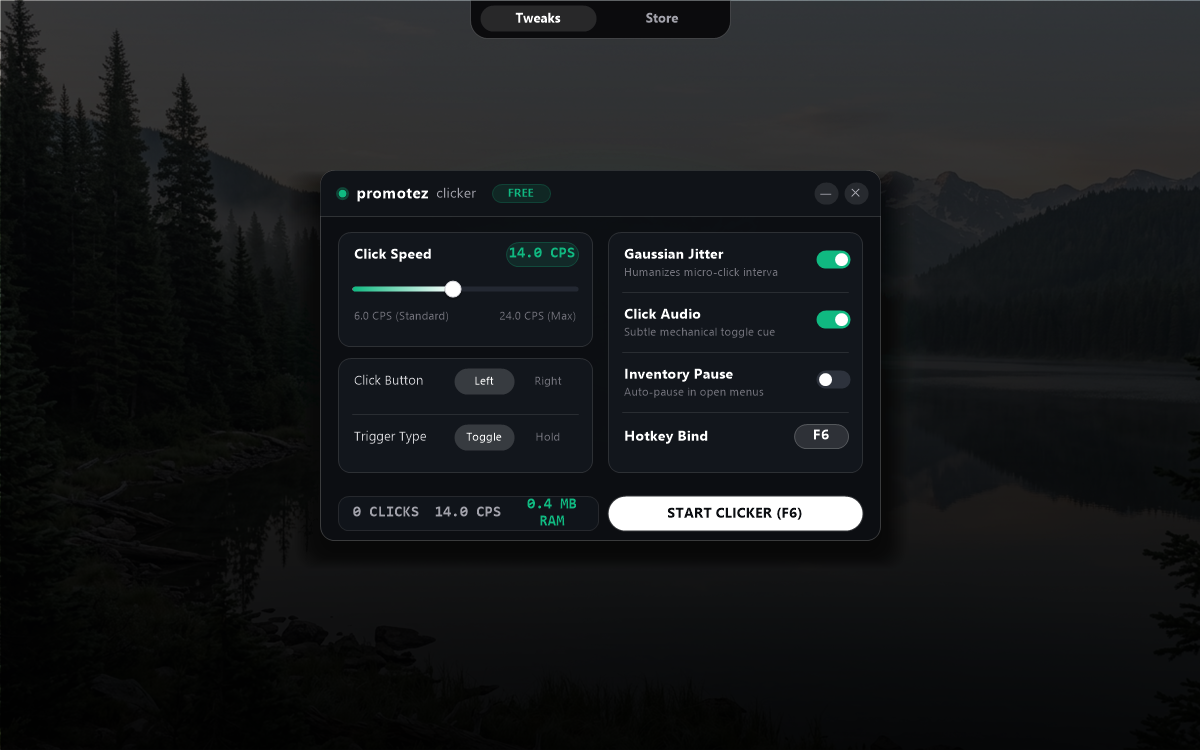
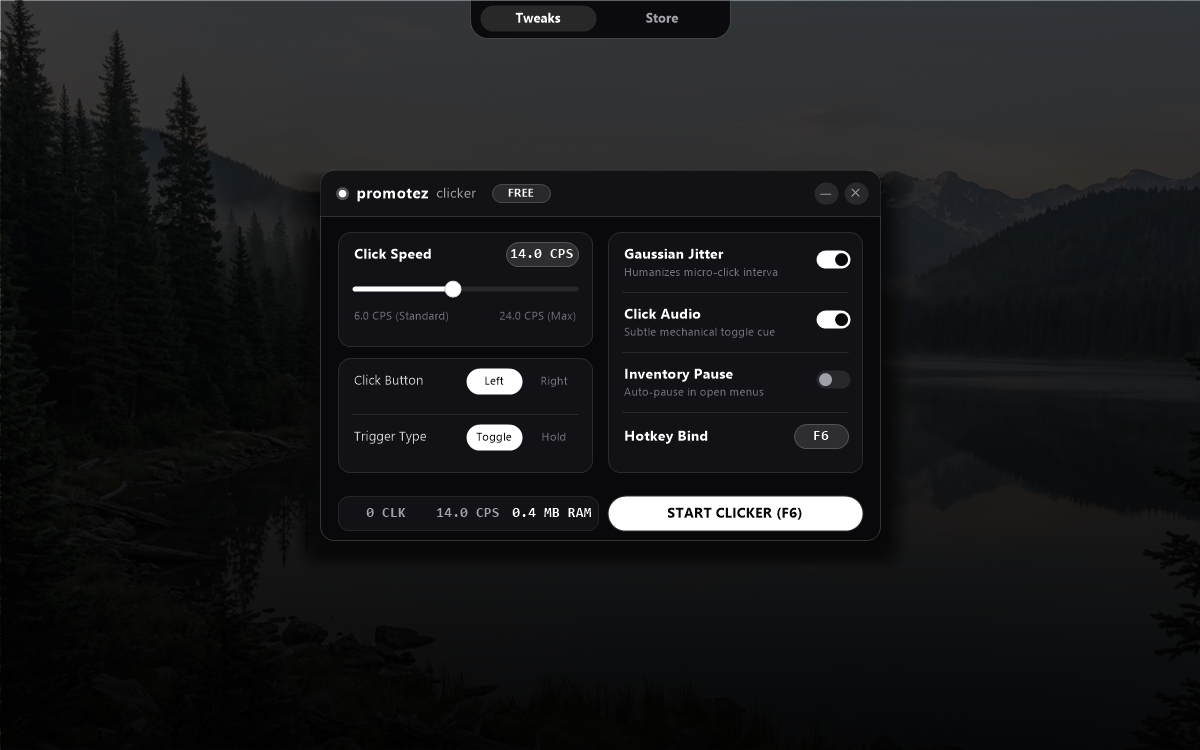
Align UI with promotezz monochrome dark aesthetic and update preview

diff --git a/src/gui.cpp b/src/gui.cpp
@@ -120,7 +120,6 @@ static DWORD WINAPI clicker_worker_thread(LPVOID param) {
         int hotkey_is_down = (GetAsyncKeyState(g_state.hotkey_vk) & 0x8000) != 0;
 
         if (g_state.hold_mode) {
-            // Hold mode
             if (hotkey_is_down != g_state.is_active) {
                 g_state.is_active = hotkey_is_down;
                 if (g_state.sound_enabled && g_state.is_active) {
@@ -129,7 +128,6 @@ static DWORD WINAPI clicker_worker_thread(LPVOID param) {
                 if (g_state.hwnd) InvalidateRect(g_state.hwnd, NULL, FALSE);
             }
         } else {
-            // Toggle mode
             if (hotkey_is_down && !hotkey_was_down) {
                 g_state.is_active = !g_state.is_active;
                 if (g_state.sound_enabled) {
@@ -220,14 +218,16 @@ static void draw_rounded_card(Graphics* g, Brush* brush, Pen* pen, float x, floa
 static void draw_switch(Graphics* g, float x, float y, bool on) {
     float w = 34.0f;
     float h = 18.0f;
-    Color bgColor = on ? Color(255, 16, 185, 129) : Color(255, 45, 50, 60);
+    // Strict monochrome: White when ON, Dark zinc when OFF
+    Color bgColor = on ? Color(255, 255, 255, 255) : Color(255, 39, 39, 44);
     SolidBrush bg(bgColor);
     fill_rounded_card(g, &bg, x, y, w, h, 9.0f);
 
     float knobR = 6.5f;
     float knobX = on ? (x + w - knobR - 2.5f) : (x + knobR + 2.5f);
     float knobY = y + (h / 2.0f);
-    SolidBrush knobBrush(Color(255, 255, 255, 255));
+    Color knobColor = on ? Color(255, 9, 9, 11) : Color(255, 161, 161, 170);
+    SolidBrush knobBrush(knobColor);
     g->FillEllipse(&knobBrush, knobX - knobR, knobY - knobR, knobR * 2.0f, knobR * 2.0f);
 }
 
@@ -250,32 +250,22 @@ static void on_paint(HWND hwnd) {
         g.SetTextRenderingHint(TextRenderingHintAntiAlias);
         g.SetInterpolationMode(InterpolationModeHighQualityBicubic);
 
-        // 1. Base Slate #0c0e12
-        SolidBrush bgBrush(Color(255, 12, 14, 18));
+        // 1. Strict promotezz Monochrome Base: #09090b (Deep Zinc 950)
+        SolidBrush bgBrush(Color(255, 9, 9, 11));
         g.FillRectangle(&bgBrush, 0, 0, width, height);
 
-        // Ambient radial emerald hero glow behind center
-        GraphicsPath glowPath;
-        glowPath.AddEllipse(20.0f, 20.0f, (float)(width - 40), (float)(height - 40));
-        PathGradientBrush pgb(&glowPath);
-        pgb.SetCenterColor(Color(25, 16, 185, 129));
-        Color surroundColors[] = { Color(0, 12, 14, 18) };
-        int count = 1;
-        pgb.SetSurroundColors(surroundColors, &count);
-        g.FillPath(&pgb, &glowPath);
-
-        // Top Header Bar
+        // Header Bar #121215
         float headerH = 46.0f;
-        SolidBrush headerBg(Color(255, 16, 19, 24));
+        SolidBrush headerBg(Color(255, 18, 18, 21));
         Pen sepPen(Color(35, 255, 255, 255), 1.0f);
         g.FillRectangle(&headerBg, 0, 0, width, (int)headerH);
         g.DrawLine(&sepPen, 0.0f, headerH, (float)width, headerH);
 
         // Outer window border
-        Pen winBorder(Color(45, 255, 255, 255), 1.0f);
+        Pen winBorder(Color(40, 255, 255, 255), 1.0f);
         g.DrawRectangle(&winBorder, 0, 0, width - 1, height - 1);
 
-        // Fonts
+        // Typography (Segoe UI)
         FontFamily ffSegoe(L"Segoe UI");
         FontFamily ffConsolas(L"Consolas");
         Gdiplus::Font fontLogo(&ffSegoe, 11.5f, FontStyleBold, UnitPoint);
@@ -287,14 +277,17 @@ static void on_paint(HWND hwnd) {
         Gdiplus::Font fontMono(&ffConsolas, 10.5f, FontStyleBold, UnitPoint);
         Gdiplus::Font fontBtn(&ffSegoe, 10.5f, FontStyleBold, UnitPoint);
 
-        // Brushes
+        // Pure Monochrome Palette
         SolidBrush whiteBrush(Color(255, 255, 255, 255));
-        SolidBrush darkBrush(Color(255, 12, 14, 18));
+        SolidBrush darkBrush(Color(255, 9, 9, 11));
+        SolidBrush zinc200(Color(255, 228, 228, 231));
         SolidBrush zinc300(Color(255, 212, 212, 216));
         SolidBrush zinc400(Color(255, 161, 161, 170));
         SolidBrush zinc500(Color(255, 113, 113, 122));
-        SolidBrush emerald(Color(255, 16, 185, 129));
-        SolidBrush cardBg(Color(255, 18, 22, 28));
+        SolidBrush zinc600(Color(255, 82, 82, 91));
+
+        // Cards: Translucent zinc surface with subtle white border
+        SolidBrush cardBg(Color(255, 18, 18, 22));
         Pen cardBorder(Color(32, 255, 255, 255), 1.0f);
 
         StringFormat sfC;
@@ -309,26 +302,27 @@ static void on_paint(HWND hwnd) {
         sfR.SetAlignment(StringAlignmentFar);
         sfR.SetLineAlignment(StringAlignmentCenter);
 
-        // Header: Pulsing dot + promotezz clicker + FREE badge
+        // Header: Pulsing monochrome status dot + promotezz clicker + FREE badge
         float logoX = 18.0f;
         float logoY = 12.0f;
 
-        Color dotColor = g_state.is_active ? Color(255, 16, 185, 129) : Color(140, 113, 113, 122);
+        Color dotColor = g_state.is_active ? Color(255, 255, 255, 255) : Color(140, 113, 113, 122);
         SolidBrush dotBrush(dotColor);
         g.FillEllipse(&dotBrush, logoX, logoY + 7.0f, 8.0f, 8.0f);
 
         if (g_state.is_active) {
-            Pen dotGlow(Color(80, 16, 185, 129), 2.0f);
+            Pen dotGlow(Color(80, 255, 255, 255), 2.0f);
             g.DrawEllipse(&dotGlow, logoX - 1.5f, logoY + 5.5f, 11.0f, 11.0f);
         }
 
         g.DrawString(L"promotezz", -1, &fontLogo, RectF(logoX + 16.0f, logoY, 82.0f, 22.0f), &sfL, &whiteBrush);
         g.DrawString(L"clicker", -1, &fontLogoSub, RectF(logoX + 96.0f, logoY, 56.0f, 22.0f), &sfL, &zinc400);
 
-        SolidBrush verBg(Color(30, 16, 185, 129));
-        Pen verBorder(Color(60, 16, 185, 129), 1.0f);
+        // FREE Badge (Monochrome white/10 pill)
+        SolidBrush verBg(Color(25, 255, 255, 255));
+        Pen verBorder(Color(50, 255, 255, 255), 1.0f);
         draw_rounded_card(&g, &verBg, &verBorder, logoX + 154.0f, logoY + 2.0f, 58.0f, 18.0f, 9.0f);
-        g.DrawString(L"FREE", -1, &fontBadge, RectF(logoX + 154.0f, logoY + 2.0f, 58.0f, 18.0f), &sfC, &emerald);
+        g.DrawString(L"FREE", -1, &fontBadge, RectF(logoX + 154.0f, logoY + 2.0f, 58.0f, 18.0f), &sfC, &whiteBrush);
 
         // Window Controls (Right of Header)
         SolidBrush ctrlBg(Color(25, 255, 255, 255));
@@ -338,7 +332,7 @@ static void on_paint(HWND hwnd) {
         g.DrawString(L"✕", -1, &fontSub, RectF((float)g_btn_close_rect.left, (float)g_btn_close_rect.top, 24.0f, 22.0f), &sfC, &zinc400);
 
         // ==========================================
-        // DUAL COLUMN CLIENT INTERFACE
+        // DUAL COLUMN INTERFACE (Promotezz Monochrome)
         // ==========================================
         float colY = headerH + 16.0f;
         float colGap = 16.0f;
@@ -351,13 +345,15 @@ static void on_paint(HWND hwnd) {
         draw_rounded_card(&g, &cardBg, &cardBorder, col1X, colY, colW, card1H, 12.0f);
         g.DrawString(L"Click Speed", -1, &fontCardTitle, RectF(col1X + 14.0f, colY + 12.0f, 110.0f, 20.0f), &sfL, &whiteBrush);
 
+        // Monochrome Speed Value Badge
         wchar_t cpsStr[32];
         swprintf_s(cpsStr, 32, L"%.1f CPS", g_state.target_cps);
-        SolidBrush badgeBg(Color(30, 16, 185, 129));
-        Pen badgeBorder(Color(70, 16, 185, 129), 1.0f);
+        SolidBrush badgeBg(Color(30, 255, 255, 255));
+        Pen badgeBorder(Color(60, 255, 255, 255), 1.0f);
         draw_rounded_card(&g, &badgeBg, &badgeBorder, col1X + colW - 86.0f, colY + 10.0f, 72.0f, 24.0f, 12.0f);
-        g.DrawString(cpsStr, -1, &fontMono, RectF(col1X + colW - 86.0f, colY + 10.0f, 72.0f, 24.0f), &sfC, &emerald);
+        g.DrawString(cpsStr, -1, &fontMono, RectF(col1X + colW - 86.0f, colY + 10.0f, 72.0f, 24.0f), &sfC, &whiteBrush);
 
+        // Slider Track
         float trackX = col1X + 14.0f;
         float trackY = colY + 54.0f;
         float trackW = colW - 28.0f;
@@ -368,7 +364,7 @@ static void on_paint(HWND hwnd) {
         g_slider_rect.top = (LONG)(trackY - 6.0f);
         g_slider_rect.bottom = (LONG)(trackY + trackH + 6.0f);
 
-        SolidBrush railBg(Color(255, 35, 40, 50));
+        SolidBrush railBg(Color(255, 39, 39, 44));
         fill_rounded_card(&g, &railBg, trackX, trackY, trackW, trackH, 2.5f);
 
         double pct = (g_state.target_cps - 6.0) / (24.0 - 6.0);
@@ -407,14 +403,15 @@ static void on_paint(HWND hwnd) {
         g_btn_seg_btn_rect.top = (LONG)segY;
         g_btn_seg_btn_rect.bottom = (LONG)(segY + segH);
 
-        SolidBrush segActive(Color(45, 255, 255, 255));
+        // Monochrome active pill: White background with black text
+        SolidBrush segActiveWhite(Color(255, 255, 255, 255));
         if (!g_state.right_click_mode) {
-            fill_rounded_card(&g, &segActive, segX, segY, segW, segH, 13.0f);
+            fill_rounded_card(&g, &segActiveWhite, segX, segY, segW, segH, 13.0f);
         } else {
-            fill_rounded_card(&g, &segActive, segX + segW + 4.0f, segY, segW, segH, 13.0f);
+            fill_rounded_card(&g, &segActiveWhite, segX + segW + 4.0f, segY, segW, segH, 13.0f);
         }
-        g.DrawString(L"Left", -1, &fontSub, RectF(segX, segY, segW, segH), &sfC, !g_state.right_click_mode ? &whiteBrush : &zinc500);
-        g.DrawString(L"Right", -1, &fontSub, RectF(segX + segW + 4.0f, segY, segW, segH), &sfC, g_state.right_click_mode ? &whiteBrush : &zinc500);
+        g.DrawString(L"Left", -1, &fontSub, RectF(segX, segY, segW, segH), &sfC, !g_state.right_click_mode ? &darkBrush : &zinc500);
+        g.DrawString(L"Right", -1, &fontSub, RectF(segX + segW + 4.0f, segY, segW, segH), &sfC, g_state.right_click_mode ? &darkBrush : &zinc500);
 
         Pen divPen(Color(25, 255, 255, 255), 1.0f);
         g.DrawLine(&divPen, col1X + 14.0f, card2Y + 56.0f, col1X + colW - 14.0f, card2Y + 56.0f);
@@ -427,12 +424,12 @@ static void on_paint(HWND hwnd) {
         g_btn_seg_trig_rect.bottom = (LONG)(seg2Y + segH);
 
         if (!g_state.hold_mode) {
-            fill_rounded_card(&g, &segActive, segX, seg2Y, segW, segH, 13.0f);
+            fill_rounded_card(&g, &segActiveWhite, segX, seg2Y, segW, segH, 13.0f);
         } else {
-            fill_rounded_card(&g, &segActive, segX + segW + 4.0f, seg2Y, segW, segH, 13.0f);
+            fill_rounded_card(&g, &segActiveWhite, segX + segW + 4.0f, seg2Y, segW, segH, 13.0f);
         }
-        g.DrawString(L"Toggle", -1, &fontSub, RectF(segX, seg2Y, segW, segH), &sfC, !g_state.hold_mode ? &whiteBrush : &zinc500);
-        g.DrawString(L"Hold", -1, &fontSub, RectF(segX + segW + 4.0f, seg2Y, segW, segH), &sfC, g_state.hold_mode ? &whiteBrush : &zinc500);
+        g.DrawString(L"Toggle", -1, &fontSub, RectF(segX, seg2Y, segW, segH), &sfC, !g_state.hold_mode ? &darkBrush : &zinc500);
+        g.DrawString(L"Hold", -1, &fontSub, RectF(segX + segW + 4.0f, seg2Y, segW, segH), &sfC, g_state.hold_mode ? &darkBrush : &zinc500);
 
         // COLUMN 2: CARD 3 (TOGGLES & BIND)
         float card3H = 240.0f;
@@ -497,7 +494,7 @@ static void on_paint(HWND hwnd) {
         float dockH = 34.0f;
 
         // Telemetry Pill (Left)
-        SolidBrush statBg(Color(255, 16, 20, 26));
+        SolidBrush statBg(Color(255, 18, 18, 22));
         Pen statBorder(Color(25, 255, 255, 255), 1.0f);
         draw_rounded_card(&g, &statBg, &statBorder, col1X, dockY, colW, dockH, 10.0f);
 
@@ -509,17 +506,18 @@ static void on_paint(HWND hwnd) {
         float thirdW = colW / 3.0f;
         g.DrawString(clicksBuf, -1, &fontMono, RectF(col1X, dockY, thirdW, dockH), &sfC, &zinc400);
         g.DrawString(liveBuf, -1, &fontMono, RectF(col1X + thirdW, dockY, thirdW, dockH), &sfC, &zinc400);
-        g.DrawString(ramBuf, -1, &fontMono, RectF(col1X + (thirdW * 2.0f), dockY, thirdW, dockH), &sfC, &emerald);
+        g.DrawString(ramBuf, -1, &fontMono, RectF(col1X + (thirdW * 2.0f), dockY, thirdW, dockH), &sfC, &whiteBrush);
 
-        // Start Button Pill (Right)
+        // Start Button Pill (Right) - Signature promotezz.cc pill button
         g_btn_toggle_rect.left = (LONG)col2X;
         g_btn_toggle_rect.right = (LONG)(col2X + colW);
         g_btn_toggle_rect.top = (LONG)dockY;
         g_btn_toggle_rect.bottom = (LONG)(dockY + dockH);
 
         if (g_state.is_active) {
-            SolidBrush activeBtn(Color(255, 225, 29, 72));
-            fill_rounded_card(&g, &activeBtn, col2X, dockY, colW, dockH, 17.0f);
+            SolidBrush activeBtn(Color(255, 18, 18, 22));
+            Pen activeRing(Color(255, 255, 255, 255), 1.5f);
+            draw_rounded_card(&g, &activeBtn, &activeRing, col2X, dockY, colW, dockH, 17.0f);
             g.DrawString(L"STOP CLICKER (F6)", -1, &fontBtn, RectF(col2X, dockY, colW, dockH), &sfC, &whiteBrush);
         } else {
             fill_rounded_card(&g, &whiteBrush, col2X, dockY, colW, dockH, 17.0f);
@@ -685,7 +683,9 @@ void prmtz_gui_init(double initial_cps) {
     wc.hCursor = LoadCursorA(NULL, IDC_ARROW);
     wc.hbrBackground = NULL;
     wc.lpszClassName = "PrmtzAutoClickerClass";
-    RegisterClassExA(&wc);
+    ATOM atom = RegisterClassExA(&wc);
+    printf("[prmtz] RegisterClassExA returned atom: %u (GetLastError: %lu)\n", (unsigned int)atom, GetLastError());
+    fflush(stdout);
 
     int w = 560;
     int h = 370;
@@ -702,6 +702,9 @@ void prmtz_gui_init(double initial_cps) {
         pos_x, pos_y, w, h,
         NULL, NULL, hInstance, NULL
     );
+
+    printf("[prmtz] CreateWindowExA returned: %p (GetLastError: %lu)\n", (void*)hwnd, GetLastError());
+    fflush(stdout);
 
     g_state.hwnd = hwnd;
 

diff --git a/README.md b/README.md
@@ -10,10 +10,10 @@ A modern, zero-overhead systems autoclicker engineered for competitive performan
 
 <br />
 
-[![RAM Footprint](https://img.shields.io/badge/RAM-%3C%203.2%20MB-10b981?style=flat-square)](https://store.promotezz.cc)
-[![Platform](https://img.shields.io/badge/Platform-Windows%2010%20%7C%2011-black?style=flat-square)](https://promotezz.cc)
-[![Speed](https://img.shields.io/badge/Speed-6--24%20CPS-blue?style=flat-square)](https://store.promotezz.cc)
-[![License](https://img.shields.io/badge/License-MIT-white?style=flat-square)](https://opensource.org/licenses/MIT)
+[![RAM Footprint](https://img.shields.io/badge/RAM-%3C%203.2%20MB-09090b?style=flat-square)](https://store.promotezz.cc)
+[![Platform](https://img.shields.io/badge/Platform-Windows%2010%20%7C%2011-09090b?style=flat-square)](https://promotezz.cc)
+[![Speed](https://img.shields.io/badge/Speed-6--24%20CPS-09090b?style=flat-square)](https://store.promotezz.cc)
+[![License](https://img.shields.io/badge/License-MIT-09090b?style=flat-square)](https://opensource.org/licenses/MIT)
 
 </div>
 
